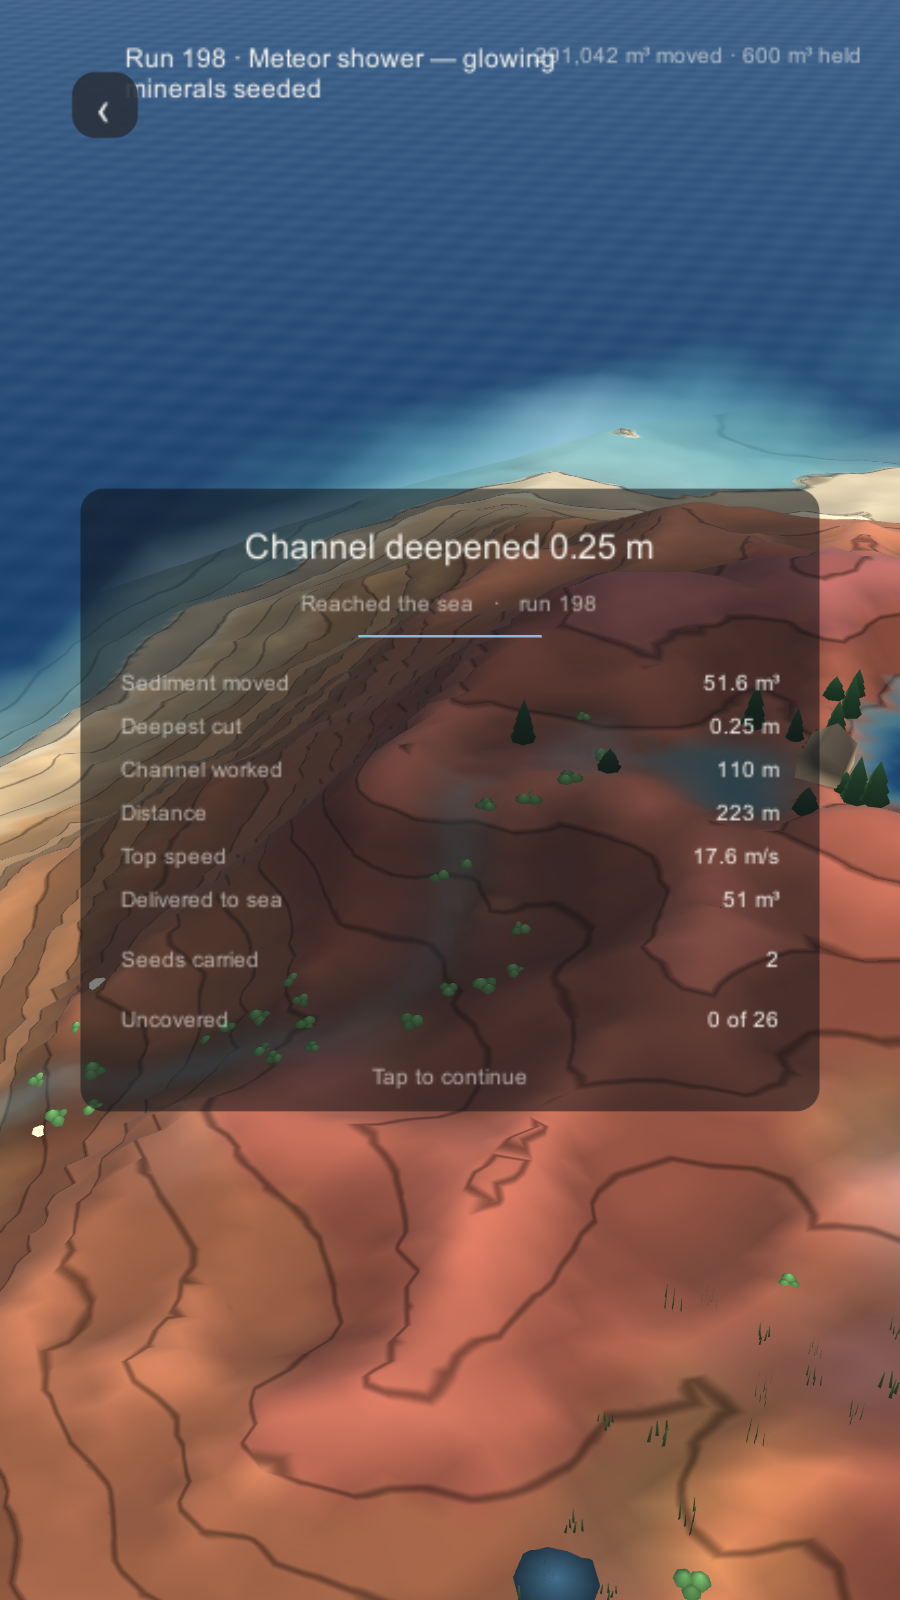
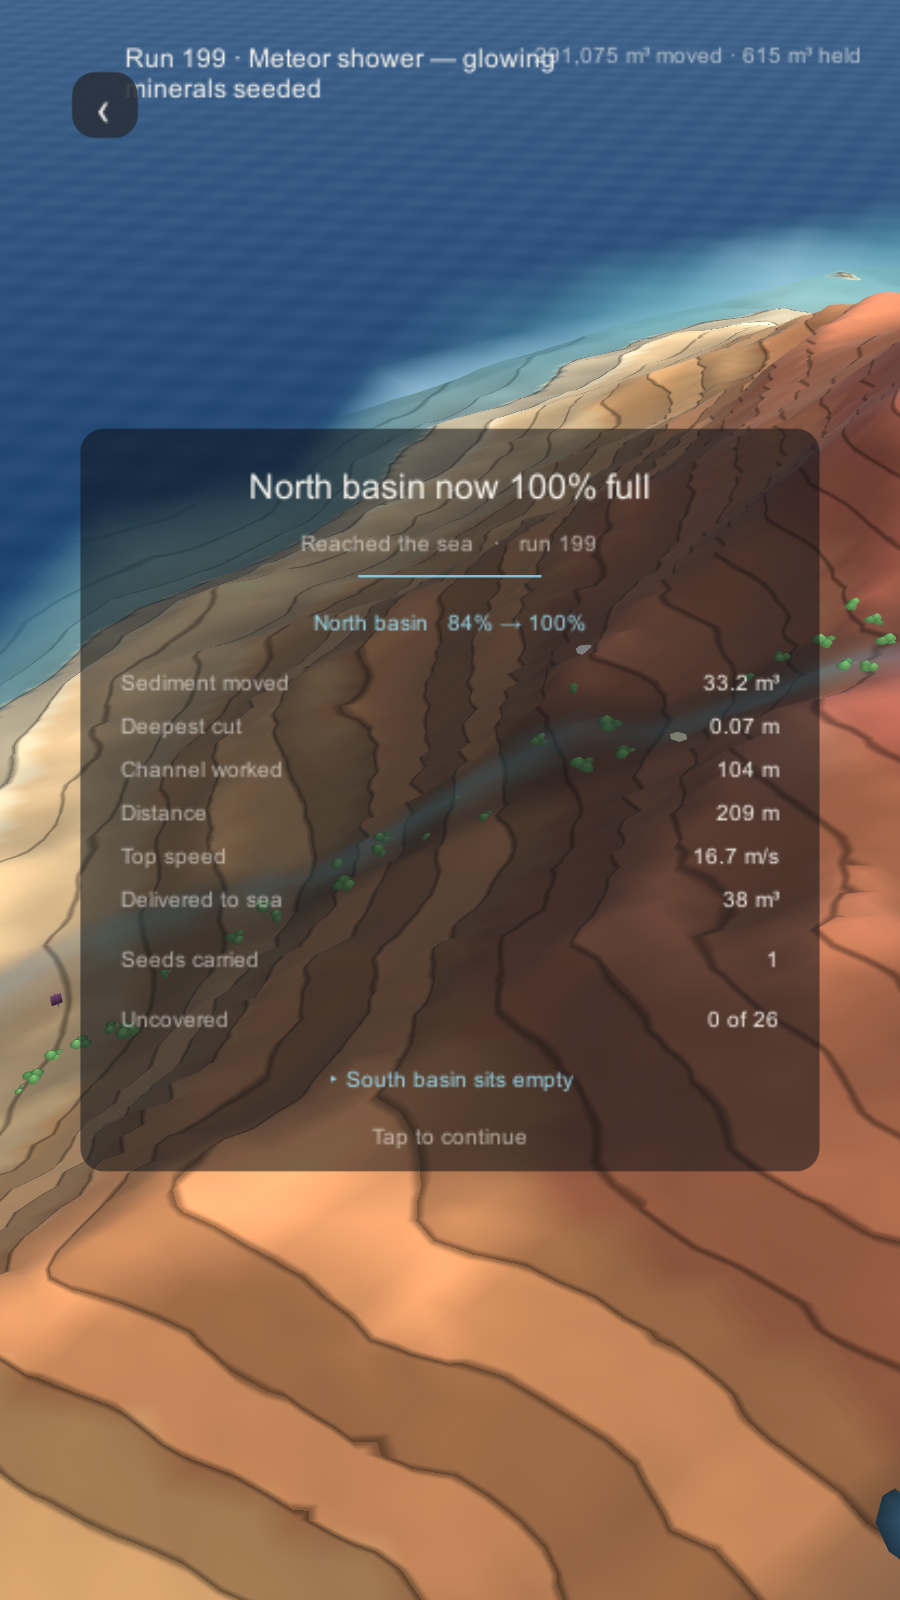
feat(meta): the end card says what is almost about to happen
NextTeaser.For(world): one world-derived line at the bottom of the
report card — a basin near its brim with the exact m³ it still wants, a
secret under thin rock the player's water has actually cut toward, or a
basin that sits empty when nothing is genuinely close. Reads the world,
awards nothing; computed after drift and biome rules so it cannot
promise a basin the run just silted shut. Not on the Daily (borrowed
world, promise nobody can collect on), not for cascades.

The smoke test counts it, and the count caught two failures before
anyone saw the card: an untouched shallow secret produced the same
'0.3 m under the rock' on 23 of 24 runs (secrets now require real
erosion toward them), and pure urgency ranking made the card a secrets
ticker (basin and secret promises alternate by run number). Measured:
teaser on 24/24 runs with converging numbers — secret 0.7 m -> 0.2 m,
North basin 173 m³ -> 109 m³. Probe: 0 failed, 0 runtime errors.

Closes L-060.

diff --git a/Assets/Scripts/Meta/NextTeaser.cs b/Assets/Scripts/Meta/NextTeaser.cs
@@ -1,0 +1,94 @@
+using UnityEngine;
+using Rill.App;
+using Rill.Core;
+
+namespace Rill.Meta
+{
+    /// <summary>
+    /// The one line on the end card about what is *almost* about to happen. "One more run" is fed
+    /// by unfinished business, and the card only ever reported the past; the world is full of
+    /// numbers that are nearly something — a basin at 91%, a secret half a metre from daylight —
+    /// and none of them were ever said.
+    ///
+    /// Reads the world and awards nothing, like every other surface in this game. Every line here
+    /// must be recomputable from the heightfield: if the teaser says 40 m³, pouring 40 m³ in must
+    /// actually do the thing. No fabricated urgency, no invented countdowns.
+    /// </summary>
+    public static class NextTeaser
+    {
+        // A teaser that fires on every run is wallpaper; one that never fires is a system that
+        // silently does nothing. The windows below aim between the two: close enough that the
+        // promise is genuinely near, wide enough that a mid-game mountain usually has one.
+        const float BasinNoticeFill = 0.55f;   // below this a basin is progress, not a promise
+        const float BasinDoneFill = 0.995f;
+        const float SecretNoticeBurial = 1.5f; // metres of rock left; matches the shimmer hint radius
+
+        /// <summary>Best "next" line for this world, or null when nothing is genuinely close.</summary>
+        public static string For(RillWorld world)
+        {
+            // Basin promise and secret promise are collected separately and alternated by run
+            // number when both exist. Ranked purely by urgency, the shallowest secret won every
+            // run of a 24-run session and the card read as a secrets ticker — variety between two
+            // true lines beats strict priority between them.
+            string basinLine = null, secretLine = null;
+            float basinUrgency = 0f, secretUrgency = 0f;
+
+            // A basin near its brim. The remaining volume is the exact number the card's own
+            // basin rows already use, so the promise and the progress bar can never disagree.
+            var basins = world.Basins.Basins;
+            for (int i = 0; i < basins.Count; i++)
+            {
+                var b = basins[i];
+                if (b.Capacity < 5f) continue;   // a puddle filling is not a promise
+                float fill = b.FillFraction;
+                if (fill < BasinNoticeFill || fill > BasinDoneFill) continue;
+                float u = (fill - BasinNoticeFill) / (1f - BasinNoticeFill);
+                if (u <= basinUrgency) continue;
+                basinUrgency = u;
+                string name = string.IsNullOrEmpty(b.Name) ? "A tarn" : b.Name;
+                basinLine = string.Format("{0} wants {1:n0} m³ more", name, Mathf.Max(1f, b.Capacity - b.Volume));
+            }
+
+            // A secret close under the rock. Deliberately vague about where — the shimmer already
+            // marks the spot in the world, and naming the place on a card would turn a discovery
+            // into an errand.
+            for (int i = 0; i < world.Secrets.Count; i++)
+            {
+                var s = world.Secrets[i];
+                if (s.Revealed) continue;
+                // Only sites the player's water has actually cut toward. Generation places some
+                // secrets shallow, and an untouched one produced the same "0.3 m under the rock"
+                // line on 23 of 24 runs — a promise that never moves is wallpaper, and worse, it
+                // is a promise about a place the player has no channel to.
+                if (world.Field.Virgin[s.Cell] - world.Field.Height[s.Cell] < 0.05f) continue;
+                float burial = world.Field.Height[s.Cell] - s.RevealElevation;
+                if (burial <= 0f || burial > SecretNoticeBurial) continue;
+                float u = 1f - burial / SecretNoticeBurial;
+                if (u <= secretUrgency) continue;
+                secretUrgency = u;
+                secretLine = string.Format("Something lies {0:0.0} m under the rock", burial);
+            }
+
+            if (basinLine != null && secretLine != null)
+                return (world.RunNumber & 1) == 0 ? basinLine : secretLine;
+            if (basinLine != null) return basinLine;
+            if (secretLine != null) return secretLine;
+
+            // A basin the water has never favoured, said only once the mountain is wet enough for
+            // the contrast to mean something. Weakest of the three on purpose: it is a direction,
+            // not a near-miss, so it only speaks when nothing is genuinely close.
+            if (world.Basins.TotalWater() > 50f)
+            {
+                for (int i = 0; i < basins.Count; i++)
+                {
+                    var b = basins[i];
+                    if (b.Capacity < 5f || b.Volume > 1f) continue;
+                    string name = string.IsNullOrEmpty(b.Name) ? "One tarn" : b.Name;
+                    return string.Format("{0} sits empty", name);
+                }
+            }
+
+            return null;
+        }
+    }
+}

diff --git a/Assets/Editor/RillSmokeTest.cs b/Assets/Editor/RillSmokeTest.cs
@@ -701,6 +701,8 @@ namespace Rill.EditorTools
             float hollowVolume = 0f;
             var stopBasinHits = new Dictionary<int, int>();
             var biomeHeadlineCounts = new Dictionary<string, int>();
+            int teaserRuns = 0;
+            var teaserLines = new Dictionary<string, int>();
             var worldHeadlines = new Dictionary<string, int>();
             // A "Pooled" ending covers three different failures — sat down in a lake, sank into a
             // pit it dug, or seized up on a slope the terminal-speed identity says should still
@@ -949,6 +951,18 @@ namespace Rill.EditorTools
                     string key = rep.Headlines[h];
                     if (!worldHeadlines.ContainsKey(key)) worldHeadlines[key] = 1;
                     else worldHeadlines[key]++;
+                }
+
+                // The end-card teaser, computed at the same point in the run lifecycle as
+                // RunController does it (after drift and biome rules). Counted because a teaser
+                // that never fires is a system that silently does nothing — the exact failure
+                // mode this project keeps hitting. (L-060)
+                string tease = Rill.Meta.NextTeaser.For(world);
+                if (tease != null)
+                {
+                    teaserRuns++;
+                    if (!teaserLines.ContainsKey(tease)) teaserLines[tease] = 1;
+                    else teaserLines[tease]++;
                 }
 
                 if (!endings.ContainsKey(sim.Ending)) endings[sim.Ending] = 0;
@@ -1294,6 +1308,17 @@ namespace Rill.EditorTools
                 log.AppendLine();
             }
             log.AppendFormat("  ice cells        {0}\n", IceCells(world));
+
+            // The end-card teaser (L-060). Zero firings over a whole session would mean the card
+            // never has a "next" to offer, which is the silent-nothing failure; every run firing
+            // would mean it is wallpaper. Both are visible here.
+            if (teaserRuns == 0) log.AppendFormat("  next teaser      NONE in {0} runs — the card never had a next to offer\n", Runs);
+            else
+            {
+                log.AppendFormat("  next teaser      on {0} of {1} runs: ", teaserRuns, Runs);
+                foreach (var kv in teaserLines) log.AppendFormat("\"{0}\" x{1}  ", kv.Key, kv.Value);
+                log.AppendLine();
+            }
 
             // Save / load round-trip: the world is the save file, so this is the load-bearing test.
             var life = new float[world.Field.Count];

diff --git a/Assets/Scripts/UI/HudController.cs b/Assets/Scripts/UI/HudController.cs
@@ -566,6 +566,14 @@ namespace Rill.UI
             AddReportGap();
             AddReportStat("Uncovered", secretsFound + " of " + secretsTotal);
 
+            // The last thing read is the reason to run again. One line, world-derived, never a
+            // demand — the card states what is close and lets the player decide it matters.
+            if (!string.IsNullOrEmpty(rep.NextLine))
+            {
+                AddReportGap();
+                AddReportEvent("▸ " + rep.NextLine);
+            }
+
             // The card is exactly as tall as what it has to say.
             var rt = UIFactory.Rect(_reportCard.gameObject);
             rt.sizeDelta = new Vector2(900f, Mathf.Clamp(ReportHeader + _reportRowY + ReportFooter, 480f, 1400f));

diff --git a/Assets/Scripts/Flow/RunController.cs b/Assets/Scripts/Flow/RunController.cs
@@ -703,6 +703,11 @@ namespace Rill.Flow
             BiomeRules.BetweenRuns(Active, _weather, report.Headlines);
             _projects.Refresh(Active, Ecosystem, Revelation, InDaily ? null : _almanac);
 
+            // After every consequence has landed — deposition, drift, biome rules — so the teaser
+            // cannot promise a basin the run just silted shut. Not on the Daily: its world is
+            // borrowed and discarded, so "next" there is a promise nobody can collect on.
+            report.NextLine = (InDaily || _autoRun) ? null : Rill.Meta.NextTeaser.For(Active);
+
             if (report.Revealed.Count > 0 || report.Overflowed) Haptics.Event();
 
             _lastReport = report;

diff --git a/Assets/Scripts/Flow/CarveReport.cs b/Assets/Scripts/Flow/CarveReport.cs
@@ -45,6 +45,13 @@ namespace Rill.Flow
         public bool Overflowed;
         public string OverflowBasin;
 
+        /// <summary>
+        /// The one world-derived line about what is almost about to happen, or null. Set by the
+        /// controller after the run's consequences have all landed, because a teaser computed
+        /// before deposition could promise a basin the run just silted shut.
+        /// </summary>
+        public string NextLine;
+
         // Things the run picked up on the way down. None of them are currency.
         public int SeedsCaught;
         public int FlowersSplashed;

diff --git a/OPEN-LOOPS.md b/OPEN-LOOPS.md
@@ -3,7 +3,7 @@
 **This file drives implementation.** Read it first, work the top open loop, close it with evidence,
 then update this file. It is the only place that says what happens next.
 
-Last updated: **2026-07-27** · Open loops: **25** · Closed this cycle: **44** (34 archived)
+Last updated: **2026-07-27** · Open loops: **24** · Closed this cycle: **45** (34 archived)
 
 ---
 
@@ -253,16 +253,6 @@ Rejected on the way: anything resembling XP, streaks that punish a missed day, t
 energy systems, and a "prestige" reset (invariant 1 makes the whole genre impossible here, which
 is the design's point). Ordered by implementation order, terminal-verifiable ones first.
 
-### L-060 · The end card never says what is almost about to happen
-**Why** — "One more run" is fed by unfinished business, and the card only reports the past. The
-world is full of numbers that are *nearly* something — a basin at 91%, a channel 0.6 m from cutting
-through a ridge to the sea, a secret 0.3 m from daylight — and none of them are ever said. The
-near-miss is the strongest single retention trigger in games that have one; this game's version is
-already true and already computed, just never surfaced.
-**Done when** — The end card carries one world-derived "next" line when one exists ("The North
-basin wants 40 m³ more"), and the smoke test prints the line for 24 runs with a count of how many
-runs had one — a teaser that appears on zero runs is a system that silently does nothing.
-
 ### L-061 · The mountain's own history is invisible
 **Why** — `TimeLapse` has archived a frame of every run since it was written, per slot, and nothing
 plays it back. Watching six months of your own carving in ten seconds is the single strongest
@@ -353,6 +343,25 @@ headless mass-balance check accounts for every m³ of shower water.
 ---
 
 ## Recently closed
+
+### L-060 · The end card never says what is almost about to happen — closed 2026-07-27
+`NextTeaser.For(world)`: one world-derived line on the end card about what is *almost* about to
+happen — a basin near its brim with the exact m³ it still wants, a secret under thin rock, or (only
+when nothing is genuinely close) a basin that sits empty. Reads the world and awards nothing; every
+number is recomputable from the heightfield, so the promise and the progress can never disagree.
+Computed after drift and biome rules so it cannot promise a basin the run just silted shut; never
+on the Daily (its world is discarded — a promise nobody can collect on) and never for cascades.
+**Two failures found by the count, both the silent-nothing kind in reverse.** First version fired
+on 24 of 24 runs with the same line on 23 of them — an *untouched* secret placed shallow by
+generation, a promise that never moved, about a place with no channel to it. Secrets now qualify
+only once the player's water has actually cut toward them (`Virgin - Height > 0.05`). Second: ranked
+purely by urgency the shallowest secret won every run and the card read as a secrets ticker, so the
+basin and secret promises alternate by run number when both exist.
+**Evidence** — smoke test now counts it: `next teaser on 24 of 24 runs`, lines *moving* across the
+session — "Something lies 0.7 m under the rock" ×1 → 0.6 ×2 → 0.4 ×6 → 0.3 ×9 → 0.2 ×1, and "North
+basin wants 173 m³ more" ×1 → "109 m³ more" ×4. Converging numbers are the difference between a
+promise and wallpaper. Play probe after the card change: 0 failed, 0 runtime errors. **Firing on
+every run of this seed is on notice** — if it reads as noise in play, the windows tighten.
 
 ### L-059 · The camera enters the mountains on slots 2 and 3 — closed 2026-07-27
 Reported in play: camera angles break and the camera goes inside the second and third mountains.
